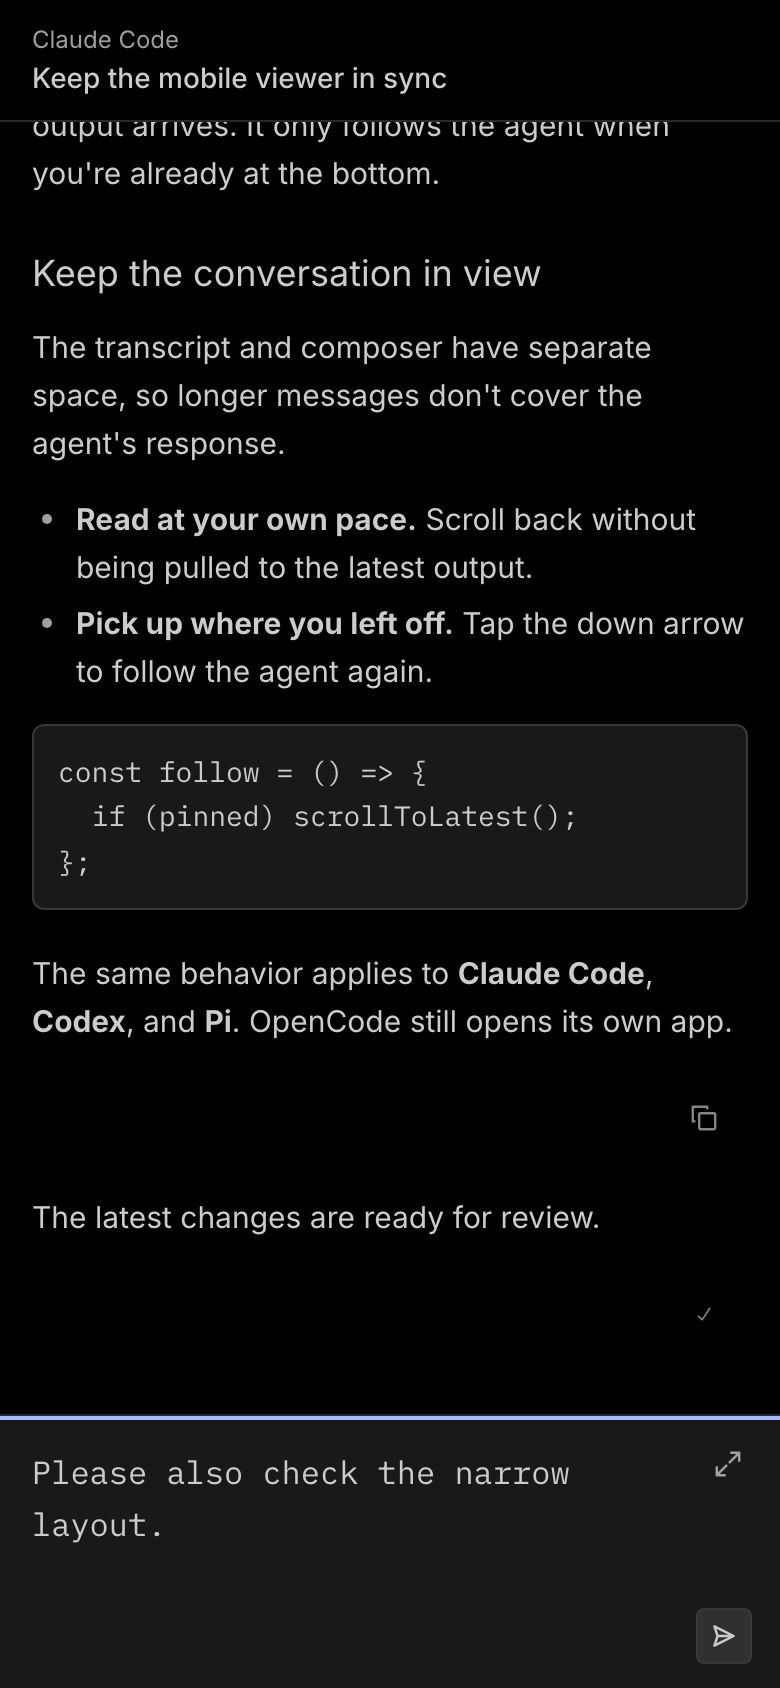
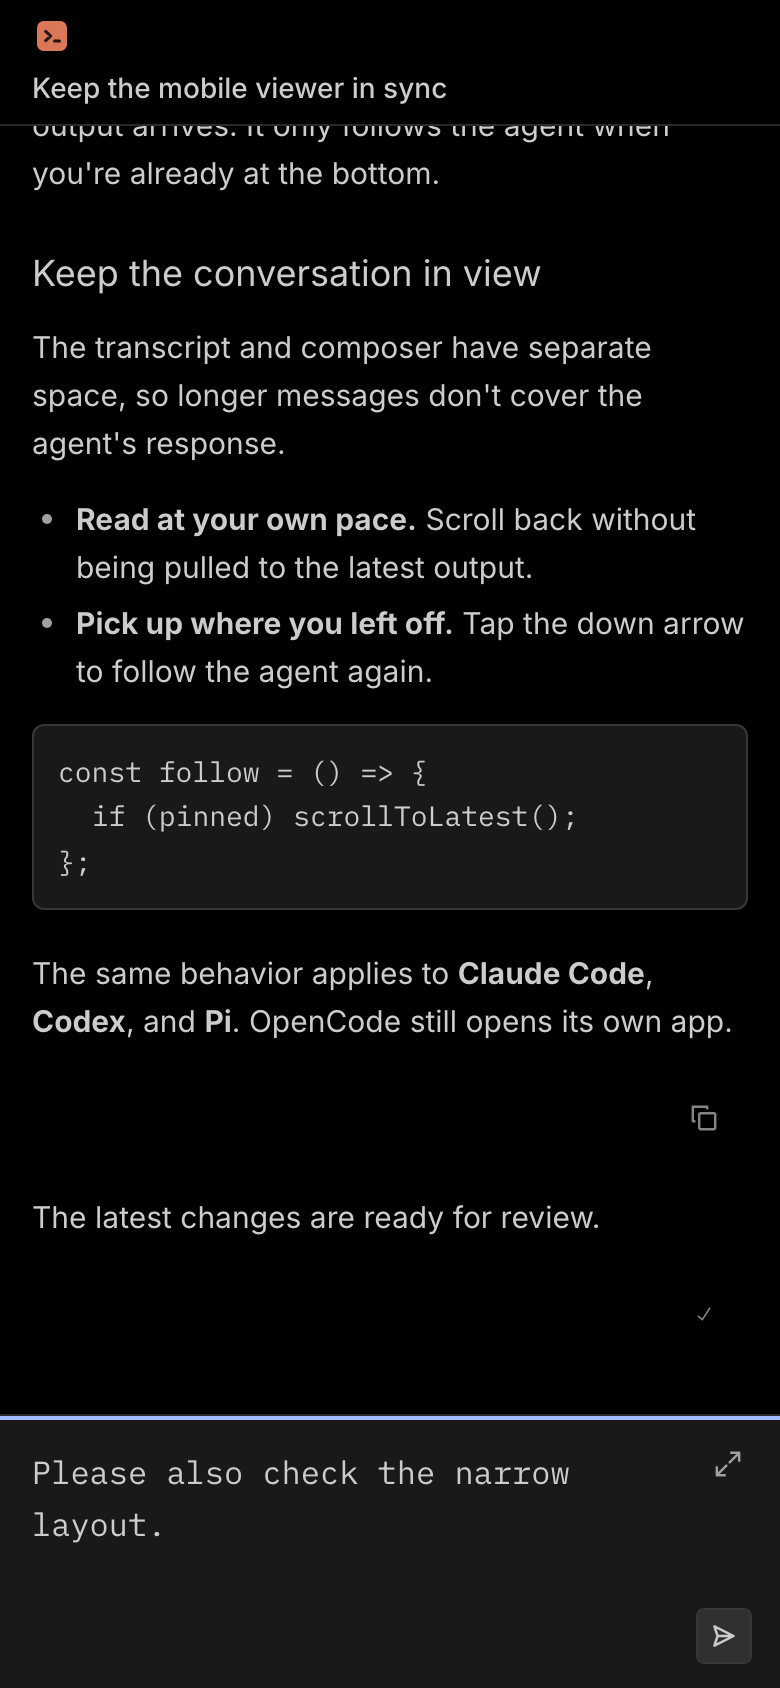
Use color agent marks in the watch header

Changed region(s): [[0.0308, 0.0, 0.5846, 0.0616]]

diff --git a/docs/mobile-viewer-design.md b/docs/mobile-viewer-design.md
@@ -19,10 +19,16 @@ fallback. OpenCode's own web app and the marketing site are unchanged.
 
 ## Adaptations for handoff
 
-Only functioning controls appear. The agent name sits at the top-left of the
-header, above the task title. A PR icon appears when a result is available.
-The lock and redundant agent and tool-summary icons are omitted. Unsupported
+Only functioning controls appear. A small agent mark sits at the top-left of
+the header, above the task title. A PR icon appears when a result is available.
+The lock and redundant tool-summary icons are omitted. Unsupported
 attachment, new-thread and model-switching controls are not shown.
+
+The agent marks are original color-coded representations, not official logos.
+Claude uses a coral terminal tile. Codex uses a blue-to-violet terminal tile
+with one pale node. Pi uses a three-color π mark, and OpenCode uses a
+monochrome square mark. Each name remains in the mark's accessible label and
+tooltip, and in the composer placeholder.
 
 Tool summaries use plain disclosure rows rather than bordered chips.
 Paths use readable muted text, and tighter spacing connects each tool to its
